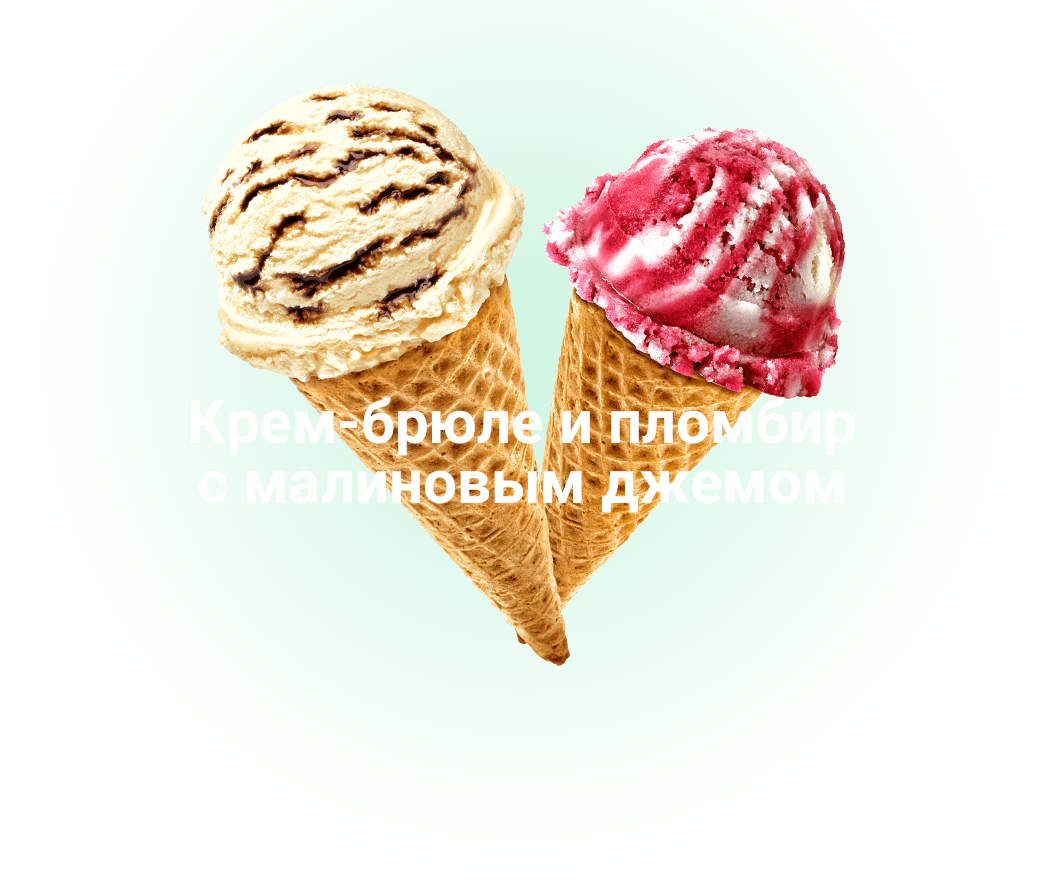
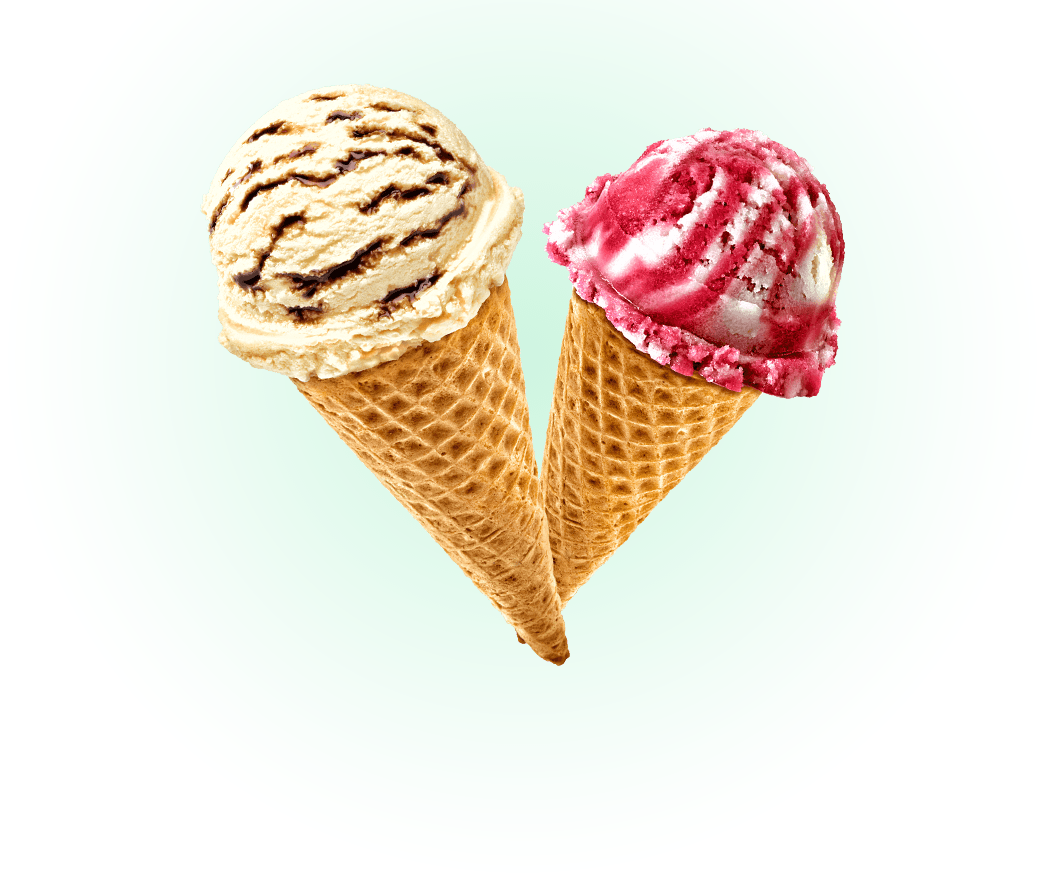
Убрал надпись с первого слайда

Changed region(s): [[0.245, 0.4597, 0.7349, 0.5823]]

diff --git a/index.html b/index.html
@@ -50,7 +50,7 @@
         <div class="mom-of-slides">
           <div class="slide-1">
             <img src="img/slide-1.png" class="icecream-background" width="1045" height="881" alt="Крем-брюле и пломбир с малиновым джемом">
-            <h3 class="visually-hidden">Крем-брюле и пломбир с малиновым джемом</h3>
+            <h3 class="slide-description">Крем-брюле и пломбир с малиновым джемом</h3>
           </div>
 
           <div class="slide-2">
